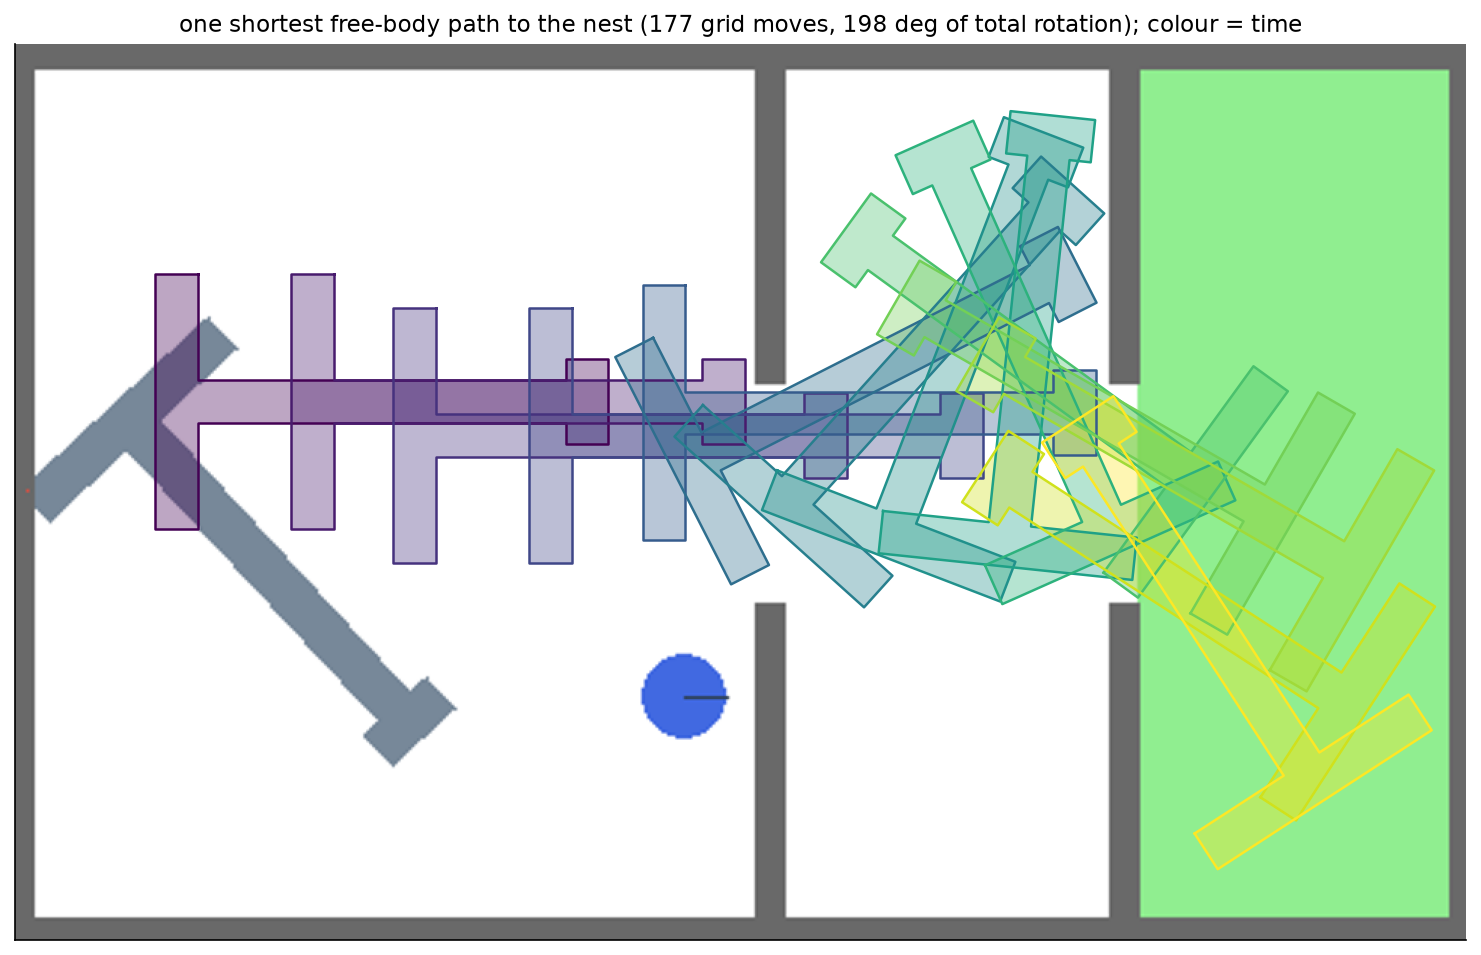
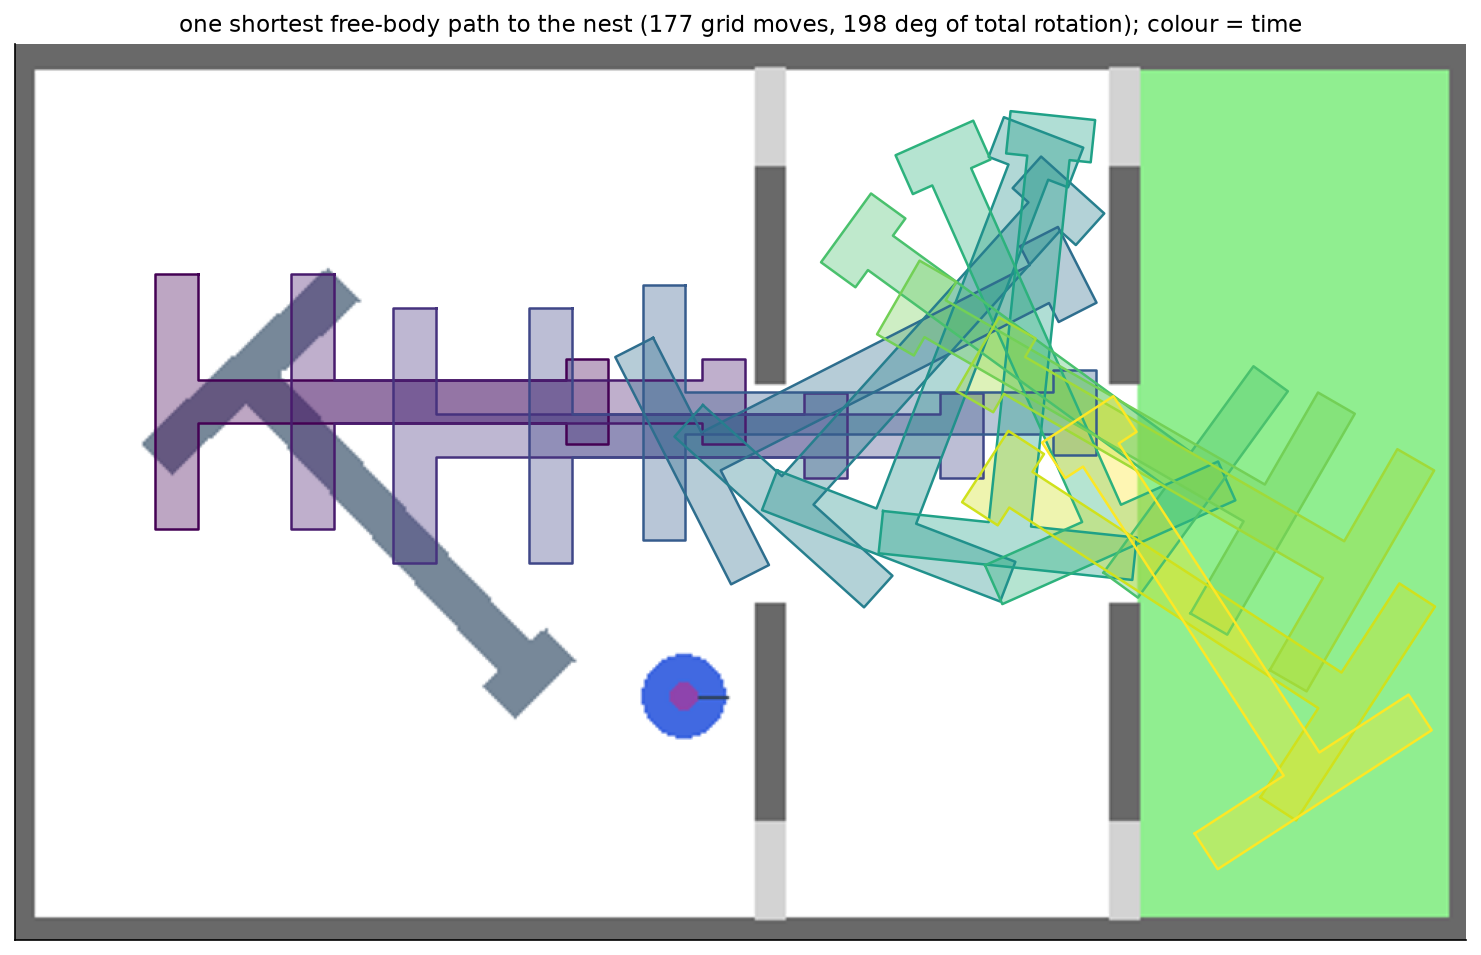
Project 3 Extra: fix pusher/load clipping (force-limited pusher, pusher-only doors), GIFs replayed from the reported episodes, updated results

diff --git a/Multimodal_Foundation_Models_Project_3_Action_Chunking_and_Flow_Matching/index.html b/Multimodal_Foundation_Models_Project_3_Action_Chunking_and_Flow_Matching/index.html
@@ -631,19 +631,19 @@
             <table>
                 <thead><tr><th>Item</th><th>Choice</th></tr></thead>
                 <tbody>
-                <tr><td>Maze</td><td>500 &times; 300 px corridor inside the PushT arena; 10 px walls at $x=266$ and $x=391$ (115 px middle chamber); 78 px slits at mid-height</td></tr>
+                <tr><td>Maze</td><td>500 &times; 300 px corridor inside the PushT arena; 10 px walls at $x=266$ and $x=391$ (115 px middle chamber); 78 px slits at mid-height; a 34 px pusher-only door (light gray) at the top and bottom of each wall, so the pusher can change chambers while the T fills a slit</td></tr>
                 <tr><td>Load</td><td>T with a 90 &times; 15 px crossbar, 130 px stem and 30 px foot (175 px long)</td></tr>
-                <tr><td>Physics, control</td><td>unchanged from PushT (10 Hz PD pusher, action = target position); the pusher is a heavy velocity-controlled body so that walls stop it</td></tr>
-                <tr><td>Reward</td><td>$\mathrm{clip}(f/0.95,0,1)$ with $f$ the fraction of the load inside the nest; success $f&gt;0.95$; 2000-step limit</td></tr>
-                <tr><td>Demonstrations</td><td>a scripted, simulation-based expert (only successful episodes kept): 250 of 280 episodes, median 365 steps</td></tr>
-                <tr><td>Policy</td><td>conditional flow matching exactly as in Part 2 ($K=8$, $N=10$), ~4M-parameter residual MLP with FiLM conditioning, dropout, weight decay and an exponential moving average of the weights; mirror augmentation (the maze is symmetric top-to-bottom); 40k steps, 4 min on an RTX 5090 Laptop GPU</td></tr>
+                <tr><td>Physics, control</td><td>PushT's quasi-static pushing and 10 Hz PD control toward the action (a target position). PushT's pusher is kinematic, which lets it pass through walls and squeeze the T into them; here the PD law instead drives a force-limited joint (speed &le; 300 px/s), so walls and the T stop it. Worst overlaps measured in every test rollout: about 3 px (contact tolerance)</td></tr>
+                <tr><td>Reward</td><td>$\mathrm{clip}(f/0.95,0,1)$ with $f$ the fraction of the T inside the nest; success $f&gt;0.95$; 2000-step limit</td></tr>
+                <tr><td>Demonstrations</td><td>Parts 1&ndash;3 use human-teleoperated demonstrations; none exist for this maze, so a scripted planner (below) produced them: 278 of 280 episodes succeeded, and the first 250 successes (median 386 steps) are the training data</td></tr>
+                <tr><td>Policy</td><td>conditional flow matching exactly as in Part 2 ($K=8$, $N=10$), ~4M-parameter residual MLP with FiLM conditioning, dropout, weight decay and an exponential moving average of the weights; mirror augmentation (the maze is symmetric top-to-bottom); 40k steps, 5 min on an RTX 5090 Laptop GPU</td></tr>
                 </tbody>
             </table>
         </div>
         <div class="two">
             <div class="prose reveal">
                 <h4>Rotation is required</h4>
-                <p>Treating the load as a free rigid body on a 4 px &times; 4 px &times; 3&deg; pose grid, a breadth-first search from the nest shows that the load cannot reach it at any fixed angle, nor within any 30&deg; window of angles; it needs at least a 60&deg; window. One shortest free-body path (right) enters crossbar-first, swings the stem up inside the narrow middle chamber and turns again to pass the second slit (198&deg; of rotation in total). The same distance-to-nest field guides the scripted expert, which tries pushes from 55 contact points in a copy of the simulator and executes the one that brings the load closest to the nest.</p>
+                <p>Treating the T as a free rigid body on a 4 px &times; 4 px &times; 3&deg; pose grid, a breadth-first search from the nest shows that it cannot reach the nest at any fixed angle, nor within any 30&deg; window of angles; it needs at least a 60&deg; window. One shortest free-body path (right) enters crossbar-first, swings the stem up inside the narrow middle chamber and turns again to pass the second slit. The same distance-to-nest field guides the scripted planner, which simulates pushes from 55 contact points in a copy of the physics and executes the one that brings the T closest to the nest.</p>
             </div>
             <figure class="reveal" style="margin-top:2.6rem">
                 <img src="results_extras/cspace_path.png" alt="A shortest free-body path of the T through both slits, coloured by time" loading="lazy">
@@ -655,42 +655,42 @@
             <table>
                 <thead><tr><th>Test starts 1000&ndash;1049</th><th class="n">Score</th><th class="n">Success</th><th class="n">Mean steps</th></tr></thead>
                 <tbody>
-                <tr><td>Scripted expert (demonstrator, reference)</td><td class="n">0.921</td><td class="n">92%</td><td class="n">586</td></tr>
-                <tr class="hl"><td>Flow-matching policy (condition A below)</td><td class="n">0.915</td><td class="n">90%</td><td class="n">768</td></tr>
+                <tr><td>Scripted planner (demonstrator, reference)</td><td class="n">1.000</td><td class="n">100%</td><td class="n">505</td></tr>
+                <tr class="hl"><td>Flow-matching policy (condition A below)</td><td class="n">0.872</td><td class="n">84%</td><td class="n">831</td></tr>
                 </tbody>
             </table>
         </div>
         <div class="prose reveal">
-            <p>The policy nearly matches its demonstrator. Validation loss decreased steadily and levelled off (train 0.245, validation 0.292), so with mirror augmentation, dropout and the shorter schedule this model does not over-fit the way a larger, unregularized one did in an earlier attempt.</p>
+            <p>The policy gets the T through the first slit in 92% of starts and into the nest in 84%. Validation loss decreased steadily to 0.251 (training 0.220) without the rise seen with a larger, unregularized model in an earlier attempt.</p>
         </div>
-        <p class="gif-row-label reveal">Rollouts (4&times; speed; blue pusher, gray load, green nest, red cross = current action)</p>
+        <p class="gif-row-label reveal">Rollouts (4&times; speed; blue pusher, gray T, green nest, red cross = current action). Each GIF replays the recorded states of the reported test episode.</p>
         <div class="gifs gifs-wide reveal">
-            <figure><img src="results_extras/expert_demo.gif" alt="Scripted expert demonstration" loading="lazy"><figcaption><strong>Scripted expert</strong> (one training demonstration).</figcaption></figure>
-            <figure><img src="results_extras/A_fast.gif" alt="Flow-matching policy, fast success" loading="lazy"><figcaption><strong>Learned policy, start 1023:</strong> through both slits in 168 steps.</figcaption></figure>
-            <figure><img src="results_extras/A_worst.gif" alt="Flow-matching policy, failure" loading="lazy"><figcaption><strong>Learned policy, start 1034:</strong> failure. The load starts lying along the bottom wall and the pusher keeps pinning it there.</figcaption></figure>
+            <figure><img src="results_extras/expert_demo.gif" alt="Scripted planner demonstration" loading="lazy"><figcaption><strong>Scripted planner</strong> (one training demonstration).</figcaption></figure>
+            <figure><img src="results_extras/A_success.gif" alt="Learned policy, success" loading="lazy"><figcaption><strong>Learned policy, start 1045:</strong> a typical success, 505 steps.</figcaption></figure>
+            <figure><img src="results_extras/A_failure.gif" alt="Learned policy, failure" loading="lazy"><figcaption><strong>Learned policy, start 1000:</strong> failure. The T reaches the nest wall but never gets more than about 72% inside before the 2000-step limit.</figcaption></figure>
         </div>
         <h3 class="task reveal"><span class="num">Part 3</span>Reward-weighted fine-tuning on the maze</h3>
         <div class="prose reveal">
-            <p>Same protocol as Part 3: 50 collection episodes with the frozen policy (94% successful), weights $\min(e^{2R},5)$ normalized to mean 1, 300 updates per branch with demonstration replay, B and C matched in minibatches, noise and flow times, 3 fine-tuning seeds. Here the weights carry a real signal: the three failed collection episodes ran to the time limit and supplied 18% of the collected chunks, which C down-weights by about 5&times; while B imitates them as much as the successes.</p>
+            <p>Same protocol as Part 3: 50 collection episodes with the frozen policy (94% successful), weights $\min(e^{2R},5)$ normalized to mean 1, 300 updates per branch with demonstration replay, B and C matched in minibatches, noise and flow times, 3 fine-tuning seeds. The weights carry a real signal: the three failed collection episodes ran to the time limit and supplied 15% of the collected chunks, which C down-weights by about 5&times; while B imitates them as much as the successes.</p>
         </div>
         <div class="table-wrap reveal">
             <table>
-                <thead><tr><th>Test starts 1000&ndash;1049</th><th class="n">Success (per fine-tuning seed)</th><th class="n">Mean steps</th></tr></thead>
+                <thead><tr><th>Test starts 1000&ndash;1049</th><th class="n">Success (fine-tuning seeds 0 / 1 / 2)</th><th class="n">Mean steps</th></tr></thead>
                 <tbody>
-                <tr><td><span class="sw" style="background:#7b8991"></span>A &middot; original policy</td><td class="n">90%</td><td class="n">768</td></tr>
-                <tr><td><span class="sw" style="background:var(--b)"></span>B &middot; equal weights</td><td class="n">72 / 86 / 78%</td><td class="n">882&ndash;1104</td></tr>
-                <tr class="hl"><td><span class="sw" style="background:var(--flow)"></span>C &middot; reward weights</td><td class="n">88 / 86 / 92%</td><td class="n">813&ndash;850</td></tr>
+                <tr><td><span class="sw" style="background:#7b8991"></span>A &middot; original policy</td><td class="n">84%</td><td class="n">831</td></tr>
+                <tr><td><span class="sw" style="background:var(--b)"></span>B &middot; equal weights</td><td class="n">76 / 82 / 86%</td><td class="n">930&ndash;1012</td></tr>
+                <tr class="hl"><td><span class="sw" style="background:var(--flow)"></span>C &middot; reward weights</td><td class="n">80 / 86 / 90%</td><td class="n">814&ndash;1051</td></tr>
                 </tbody>
             </table>
         </div>
         <div class="prose reveal">
-            <p>Paired over the 50 test starts (B and C averaged over their three copies): <strong>C &minus; B = +10 points of success</strong> (95% CI +5 to +15) and 157 fewer steps (CI 67 to 248); B &minus; A = &minus;11 points (CI &minus;18 to &minus;4); C &minus; A = &minus;1 point (CI &minus;6 to +5). Unlike the original task, reward weighting clearly beats the equal-weight control here: fine-tuning on the policy's own rollouts without weights also imitates its failures and hurts, and the weights prevent that. They do not, however, improve on the original policy within this one round of fine-tuning.</p>
+            <p>Paired over the 50 test starts (B and C averaged over their three copies): <strong>C &minus; B = +4 points of success</strong> (95% CI &minus;3 to +11); C &minus; A = +1 point (&minus;9 to +12); B &minus; A = &minus;3 points (&minus;15 to +9). C is ahead of B for every fine-tuning seed, but with 50 starts the difference cannot be distinguished from noise, and neither fine-tuned branch can be distinguished from the original policy. The direction matches the mechanism (equal weights also imitate the policy's own failures), but this experiment is not large enough to confirm it.</p>
         </div>
-        <p class="gif-row-label reveal">Start 1049, fine-tuning seed 0, same policy-noise seed</p>
+        <p class="gif-row-label reveal">Start 1049 (where B and C differ most), fine-tuning seed 0, same policy-noise seed</p>
         <div class="gifs gifs-wide reveal">
-            <figure><img src="results_extras/A_compare.gif" alt="Condition A on start 1049" loading="lazy"><figcaption><strong>A:</strong> success in 215 steps.</figcaption></figure>
-            <figure><img src="results_extras/B_compare.gif" alt="Condition B on start 1049" loading="lazy"><figcaption><strong>B:</strong> success, but only after 1289 steps.</figcaption></figure>
-            <figure><img src="results_extras/C_compare.gif" alt="Condition C on start 1049" loading="lazy"><figcaption><strong>C:</strong> success in 148 steps.</figcaption></figure>
+            <figure><img src="results_extras/A_compare.gif" alt="Condition A on start 1049" loading="lazy"><figcaption><strong>A:</strong> success in 380 steps.</figcaption></figure>
+            <figure><img src="results_extras/B_compare.gif" alt="Condition B on start 1049" loading="lazy"><figcaption><strong>B:</strong> success in 310 steps.</figcaption></figure>
+            <figure><img src="results_extras/C_compare.gif" alt="Condition C on start 1049" loading="lazy"><figcaption><strong>C:</strong> failure; at best 85% of the T inside the nest. A single start: over all 50, C is slightly ahead of B.</figcaption></figure>
         </div>
     </div>
 </section>
@@ -700,7 +700,7 @@
     <div class="wrap">
         <div class="label">6 &middot; Reproducibility</div>
         <div class="prose reveal">
-            <p>Python 3.12.10, torch 2.15.0+cpu, gym-pusht 0.1.8, gymnasium 1.4.0, pymunk 6.11.1, on a laptop CPU with 4 torch threads. Seeds: split 0, training 0, fine-tuning 0/1/2, validation resets 0&ndash;49, test resets 1000&ndash;1099, collection resets 2000&ndash;2024, illustration reset 1100. Every rollout records its reset seed and policy-noise seed. Notebooks: <code>part1.ipynb</code>, <code>part2.ipynb</code> and <code>part3.ipynb</code> (roughly 5&ndash;12 minutes each end to end on a laptop CPU, depending on load). Checkpoints, the normalizer, the split, the collection dataset and all per-episode CSVs are included with the submitted code. The Extra section comes from <code>extras.ipynb</code> (Python 3.12, torch 2.11+cu128, RTX 5090 Laptop GPU; about 35 minutes end to end, mostly demonstration generation and rollouts).</p>
+            <p>Python 3.12.10, torch 2.15.0+cpu, gym-pusht 0.1.8, gymnasium 1.4.0, pymunk 6.11.1, on a laptop CPU with 4 torch threads. Seeds: split 0, training 0, fine-tuning 0/1/2, validation resets 0&ndash;49, test resets 1000&ndash;1099, collection resets 2000&ndash;2024, illustration reset 1100. Every rollout records its reset seed and policy-noise seed. Notebooks: <code>part1.ipynb</code>, <code>part2.ipynb</code> and <code>part3.ipynb</code> (roughly 5&ndash;12 minutes each end to end on a laptop CPU, depending on load). Checkpoints, the normalizer, the split, the collection dataset and all per-episode CSVs are included with the submitted code. The Extra section comes from <code>extras.ipynb</code> (Python 3.12, torch 2.11+cu128, RTX 5090 Laptop GPU; about 40 minutes end to end, mostly demonstration generation and rollouts).</p>
         </div>
         <div class="label" style="margin-top:4rem">References</div>
         <ul class="refs reveal">
